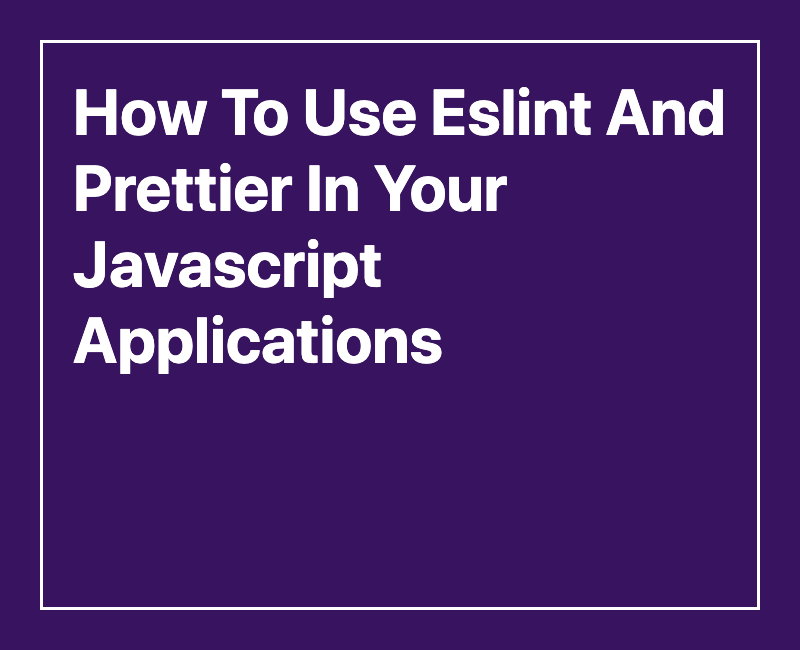
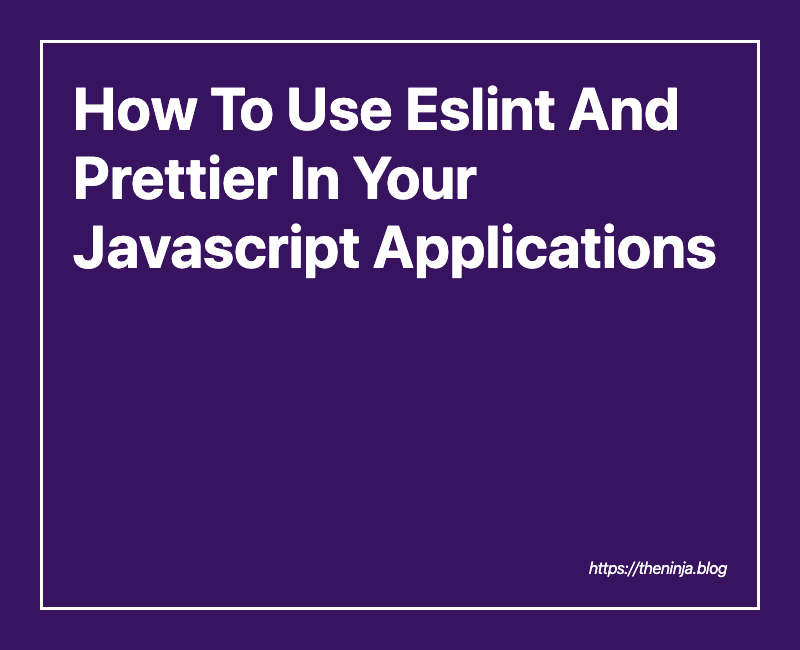
[WIP] generate images for post test

Changed region(s): [[0.0938, 0.1231, 0.9062, 0.5846], [0.7188, 0.8615, 0.9062, 0.8923]]

diff --git a/index.js b/index.js
@@ -1,3 +1,5 @@
+/* eslint-disable no-param-reassign */
+
 const path = require('path');
 const createImage = require('node-html-to-image');
 const generateHtml = require('./generateHtml');
@@ -9,26 +11,32 @@ const defaultOptions = {
   imgWidth: '700px',
   imgHeight: '650px',
   border: true,
+  domain: 'https://theninja.blog',
   postDir: 'content/posts/',
   outputDir: 'content/images/'
 };
 
 const call = function(api, passedOptions) {
-  const options = { ...defaultOptions, ...passedOptions };
+  const options = { ...defaultOptions, ...passedOptions }; // existing keys will be overriden
 
-  console.info('Generating cover images');
-  createImage({
-    output: `${options.outputDir}/test.png`,
-    html: generateHtml('how to use eslint and prettier in your javascript applications', options)
-  }).then(() => console.info(`Generated one image`));
+  api.onCreateNode(node => {
+    if (node.internal.typeName === options.typeName) {
+      console.info('Generating cover images');
 
-  // existing keys will be overriden
-  // api.onCreateNode(node => {
-  //   if ((node.internal.typeName = options.typeName)) {
+      const splitPath = node.path.split('/'); // remove slash(/) from path string
+      const imgName = splitPath[splitPath.length - 1];
+      createImage({
+        output: `${options.outputDir}/${imgName || 'test'}.png`,
+        html: generateHtml(node.title || 'test stuff', options)
+      }).then(() => console.info(`Generated image for ${node.title}`));
 
-  //     const image =
-  //   }
-  // });
+      const coverImagePath = path.relative(options.postDir, options.outputDir);
+
+      node.cover_image = coverImagePath.startsWith('.') ? coverImagePath : `./${coverImagePath}`; // use relative path
+    }
+
+    return node;
+  });
   // console.log(path.relative(options.postDir, options.outputDir));
   // console.log(options);
 };

diff --git a/generateHtml.js b/generateHtml.js
@@ -1,7 +1,5 @@
-module.exports = function(title, { backgroundColors, imgHeight, imgWidth, border }) {
+module.exports = function(title, { backgroundColors, imgHeight, imgWidth, border, domain }) {
   const bgColor = backgroundColors[Math.floor(Math.random() * backgroundColors.length)];
-
-  console.log(backgroundColors, bgColor, imgHeight, imgWidth, border);
 
   const template = `
     <html>
@@ -20,8 +18,6 @@ module.exports = function(title, { backgroundColors, imgHeight, imgWidth, border
             background: ${bgColor};
             color: #ffffff;
             font-family:  -apple-system,system-ui,BlinkMacSystemFont,"Segoe UI",Roboto,"Helvetica Neue",Arial,sans-serif;
-            font-size: 2rem;
-            text-transform: capitalize;
           }
 
           div.container{
@@ -29,13 +25,27 @@ module.exports = function(title, { backgroundColors, imgHeight, imgWidth, border
             text-align: left;
             padding: 30px;
             width: 100%;
-            height: 100%
+            height: 100%;
+            display: flex;
+            flex-direction: column;
+            justify-content: space-between
+          }
+          h1.title{
+            font-size: 3.7rem;
+            text-transform: capitalize;
+          }
+          p.domain{
+            justify-contnet: flex-end;
+            text-align: right;
+            font-style: italic
           }
         </style>
       </head>
       <body>
           <div class="container">
-            <h1>${title}</h1>
+            <h1 class="title">${title}</h1>
+
+            <p class="domain">${domain}</p>
           </div>
       </body>
     </html>
